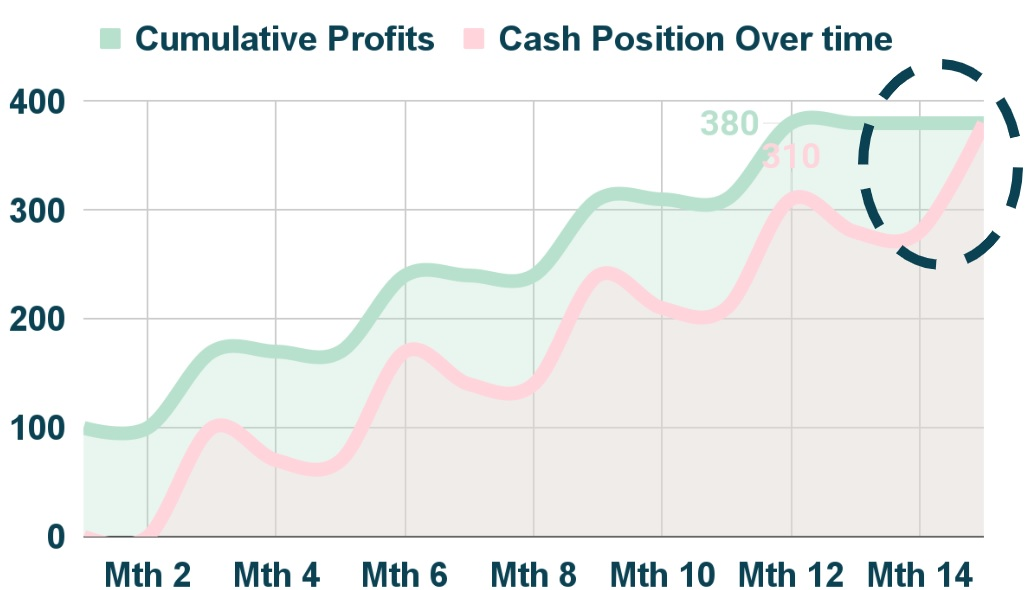
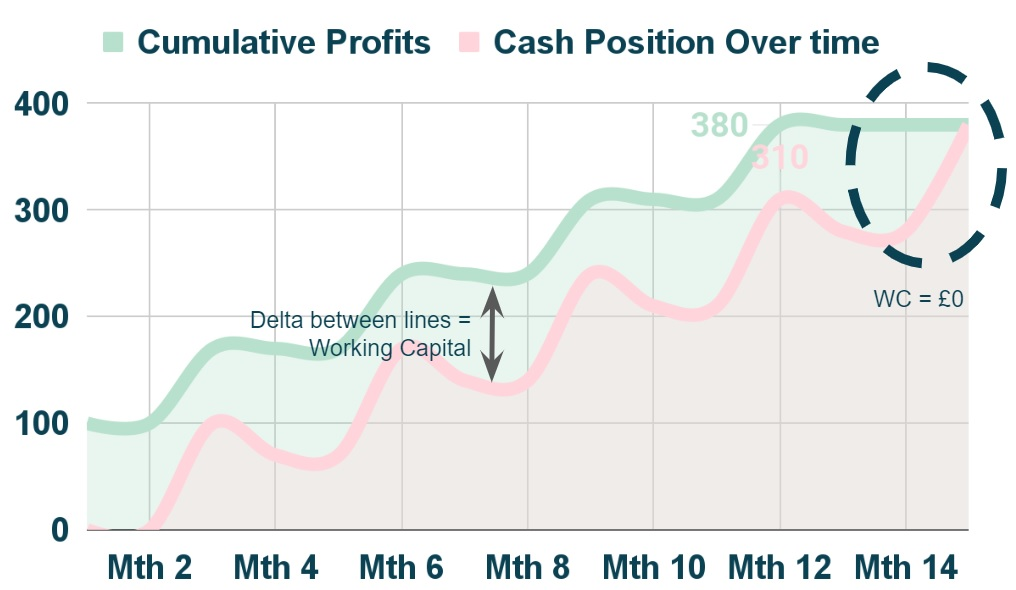
done

diff --git a/POSTS/DOT2.html b/POSTS/DOT2.html
@@ -8,7 +8,7 @@
         <meta property="og:description" content="As runway is defined by Cashflows not Profit, 
         to get a full picture of the operations of a Company, it is of paramount importance
          to understand how Profits translate into Cashflows over time."/>
-        <meta property="og:image" content="http://dotslog.com/DOTFILES/DOT2/img/CoverP.jpg"/>
+        <meta property="og:image" content="http://dotslog.com/DOTFILES/DOT2/img/CoverP2.jpg"/>
         <meta property="og:site_name" content="DotsLog"/>
         <meta charset="utf-8" />
         <meta name="author" content="Tiago Dias" />      
@@ -39,7 +39,7 @@
             </div>
         </nav>
         <!-- Page Header-->
-        <header class="masthead" style="background-image: url('../DOTFILES/DOT2/img/CoverP.jpg')">
+        <header class="masthead" style="background-image: url('../DOTFILES/DOT2/img/CoverP2.jpg')">
             <div class="container position-relative px-4 px-lg-5">
                 <div class="row gx-4 gx-lg-5 justify-content-center">
                     <div class="col-md-10 col-lg-8 col-xl-7">
@@ -49,7 +49,7 @@
                             <span class="meta">
                                 Written by
                                 <a href="../index.html">Tiago Dias</a>
-                                on July 22, 2022 (v1)
+                                on July 25, 2022 (v1)
                             </span>
                         </div>
                     </div>
@@ -66,19 +66,19 @@
                         <p align="justify">As runway is determined by Cashflows not Profit, 
                             to get a full picture of the operations of a Company, it is of paramount 
                             importance to understand how Profits translate into Cashflows over time.</br> 
-                            Key concepts are explained in this note, which set the
-                            foundations required to understand more advanced topics in future notes.
+                            This note sets the foundations required to understand more advanced topics in the future.
+                            
                         </p>                
                        
                         <!-- SECTION 1-->
-                        <h2 class="section-heading">Cashflows = Profits + Time Impact</h2>
+                        <h2 class="section-heading">Step 1 <br> Cashflows = Profits + Time Impact</h2>
                         <p align="justify">Cashflows and Profits are defined in the 
                             same way, i.e. revenues net of costs, but they 
                             are not measured on the same basis.  
                         </p>
                         <a ><img class="img-fluid" src="../DOTFILES/DOT2/img/D2P1.jpg" alt="..." /></a>
                         <span class="caption text-muted">Figure 1: Cashflows vs profits.</span>
-                        <p align="justify"><strong>Cash basis:</strong> this means to record 
+                        <p align="justify"><strong>Cash basis</strong> <br>This means to record 
                             revenues and costs based on when they are respectively received (cash revenues) or paid (cash costs).
                         </p>
                         <a ><img class="img-fluid" src="../DOTFILES/DOT2/img/D2P2.jpg" alt="..." /></a>
@@ -102,7 +102,7 @@
                             the (£30) cash costs in month 13 would be excluded.</strong>
                         </p>
 
-                        <p align="justify"><strong>Profit and Loss (P&L) basis:</strong> there are rules, 
+                        <p align="justify"><strong>Profit and Loss (P&L) basis</strong> <br>There are rules, 
                             based on different accounting standards, that stipulate when revenue is earned 
                             and when costs are incurred.
                             
@@ -123,7 +123,7 @@
                         <li>P&L Revenue client 3 = £100 earned in month 6 (received in month 9)</li>
                         <li>P&L Revenue client 4 = £100 earned in month 9 (received in month 12)</li>
                         <li>P&L Revenue client 5 = £100 earned in month 12 (received in month 15) </li>
-                        <li>Quarterly P&L Costs = (£30) incurred per quarter paid after quarter end</li>
+                        <li>Quarterly P&L Costs = (£30) incurred per quarter, paid after quarter end</li>
                     </ol>
 
                     <p align="justify">
@@ -137,30 +137,33 @@
                     <ol align="justify">
                         <li><strong>From a revenue perspective</strong>, the company received £400 cash revenues (client 5 was paid after year end) 
                             and earned £500 of revenues from 5 clients. 
-                            <strong>The time impact was thus (£100) relating to the £100 from client 5 that were received in month 15. </strong></li>
+                            <strong><br>The time impact was thus (£100) relating to the £100 from client 5 that was earned in month 12 but was
+                                only received in month 15. </strong></li>
                         <li><strong>From a cost perspective</strong>, it paid out three quarters (£90) but incurred 
                             (£120) relating to four quarters. 
-                            <strong>The time impact was thus £30 relating to fourth quarter costs that were paid in month 13. </strong> </li>
+                            <strong><br>The time impact was thus £30 relating to fourth quarter costs incurred during the quarter
+                                that were paid in month 13. </strong> </li>
                         
                       </ol>
                       <p align="justify"><strong>The overall time impact was thus (£70k)=(£100)+£30.</strong></p>
                       <a ><img class="img-fluid" src="../DOTFILES/DOT2/img/D2P5.jpg" alt="..." /></a>
-                      <span class="caption text-muted">Figure 5: Cash Time impact (£70) =£310-£380 = (£100)+£30 </span>
+                      <span class="caption text-muted">Figure 5: Cash Time impact (£70) =£310-£380 = (£100) from revenues +£30 from costs </span>
 
 
                       
 
                     <!-- SECTION 2-->
-                    <h2 class="section-heading">Balance Sheet > Keep a Score Sheet</h2>
+                    <h2 class="section-heading">Step 2<br>Balance Sheet = Keep a Score Sheet</h2>
                     <p align="justify"> 
                         In the prior sections, we have discussed two simplified versions of 
                         the financial statements of a Company for a certain time period:
+                        <ol align="justify">
+                            <li><strong>Cashflows</strong> = net change in cash position for the period
+                                </li>
+                            <li><strong>P&L</strong> = profit or loss for period</li>
+                        </ol>    
                     </p> 
-                    <ol align="justify">
-                        <li><strong>Cashflows</strong> = net change in cash position for the period
-                            </li>
-                        <li><strong>P&L</strong> = profit or loss for period</li>
-                                              </ol>
+                    
                     
                     <p align="justify"> 
                         To tie everything together we need to introduce a third financial statement, 
@@ -180,10 +183,8 @@
                         </p>
 
                     <p align="justify">
-                        <strong>Archetype #1 > Revenues</strong>
-                                                </p>
-                        <p align="justify">
-                         Going back to the example earlier in this note, what would the running score 
+                        <strong>Archetype #1 > Revenues</strong><br>
+                         Going back to the example earlier in this note, what would the final Score Sheet
                          look like for each revenue "team" at the end of the year (month 12)?
                             <strong></strong>
                             </p>
@@ -191,7 +192,7 @@
                     <center>TEAM CASH REVENUES score = £400 </br>vs TEAM P&L REVENUES score = £500</center>
                     <p align="justify">
                         TEAM P&L REVENUES thus wins the game by a margin of £100. In accounting terms however, 
-                        the overall game score or balance sheet is shown in a slightly different way 
+                        the overall game score or Balance Sheet is shown in a slightly different way 
                         (after all this is accounting stuff…):</br>
                         <center>TEAM CASH REVENUES score of £400 + £100 = </br>
                             TEAM P&L REVENUES score  £500</center>
@@ -220,16 +221,18 @@
                         Equity can thus be interpreted as the residual claim that 
                     Shareholders will have on a Company's Assets net of its Liabilities. Whatever is left 
                     would be owed to them, to compensate for the risk taken when they invested in the Company. 
-                </br>Note that <strong>Equity may be a negative figure</strong>, which means that the losses incurred over time are greater than the 
+                </br><strong>Equity may be a negative figure</strong>, when losses incurred over time are greater than the 
                     initial Equity investment from Shareholders - in this situation the Company is 
-                    <strong>insolvent</strong> which is a red flag. Soon after, it will likely become
-                <strong>iliquid, i.e. it will run out of 
-                    cash to pay the bills</strong> and go bankrupt.
+                    <strong>insolvent</strong> which is a red flag. When this happens it is very likely that within 12 months
+                    the Company becomes <strong>iliquid and runs out of 
+                    cash to pay the Bills. To put in another way, Runway is equivalent to when 
+                    the Company will become iliquid. The Balance Sheet can thus be analysed in order
+                    to determine the financial strength of a Company. </strong>
                     
                     </p> 
                     <p align="justify"> 
-                                            Coming back to the example at the start of this note, for Archetype #1 (Revenues), the Score Sheet for the game (i.e. the Balance Sheet) would be 
-                                            rewritten as (see all financial statements further below):
+                    Coming back to the example at the start of this note, for Archetype #1 (Revenues), the Score Sheet for the game (i.e. the Balance Sheet) would be 
+                    rewritten as (see all financial statements further below):
                         <center><strong>£400 Cash + £100 Asset = £500 Equity</strong></center>
                     </p> 
                     <a ><img class="img-fluid" src="../DOTFILES/DOT2/img/D2P6.jpg" alt="..." /></a>
@@ -241,7 +244,7 @@
                     </p>
 
                     <p align="justify">
-                        TEAM P&L COST thus wins the game by a margin of £30. Again, in accounting terms, the score would be
+                        In accounting terms, the score would be
                         written slightly different as: 
                         <center>TEAM CASH COSTS score of -£90 = </br>
                             TEAM P&L COSTS score  -£100 + £30</center>
@@ -249,7 +252,7 @@
                     
                     <p align="justify">
                         The balancing item of £30 will have to be paid from cash at the bank in the future.<strong> 
-                            As previously explained, this is a liability of £30</strong>.</br> 
+                            As previously explained, this is a liability of £30</strong>.
                             For Archetype #2 (Costs), the Score Sheet for the game (i.e. the Balance Sheet) would 
                             be rewritten as:
                             <center><strong>-£90 Cash = £30 Liability - £120 Equity</strong></center></br>
@@ -261,10 +264,8 @@
 
                     <p align="justify">
                         <strong>What is the Overall Score ?</br> GAME 1 SCORE (REVENUES)
-                             + GAME 2 SCORE (COSTS)</strong>
-                    </p>
-
-                    <p align="justify">
+                             + GAME 2 SCORE (COSTS)</strong></br>
+                    
                         The examples above, describe two fundamental archetypes 
                         that are used as building blocks to produce the financial 
                         statements of a Company. 
@@ -278,17 +279,17 @@
                         (-£100+£30) is simply the consequence of:
                         <ul align="justify">
                             <li> increasing assets by £100, which has a negative 
-                                impact in Cashflows as the cash inflow will occur later (£100 is received in month 15), 
+                                impact in Cashflows, as the cash inflow will occur later (£100 is received in month 15) 
                             </li>
                             and of
                             <li>increasing liabilities by £30, 
-                                which has a positive impact in Cashflows as the cash outflow will be paid later (£30 is paid in month 13).
+                                which has a positive impact in Cashflows, as the cash outflow will be paid later (£30 is paid in month 13).
                             </li>
                           </ul></strong>
                     </p>
 
                     <!-- SECTION 3-->
-                        <h2 class="section-heading">Cashflows = Profits - Change in Working Capital</h2>
+                        <h2 class="section-heading">Step 3 <br>Cashflows = Profits - Change in Working Capital</h2>
                         <p align="justify">You may have heard in the past the term “Working Capital” and 
                             searched online the term to get the below:  
                         </p>
@@ -299,9 +300,9 @@
                                 
                             </p>
                         <ol align="justify">
-                                <li>Assets were split into two lines: (i) <strong>current assets (CA)</strong> which means 
-                                    assets that are expected to be converted into cash within 12 months after 
-                                    the end of the period and (ii) <strong>non current assets</strong> which means assets that will 
+                                <li>Assets were split into two lines: (i) <strong>current assets (CA)</strong> which are
+                                    assets that are expected to be converted into cash, within 12 months after 
+                                    the end of the period and (ii) <strong>non current assets</strong> which are assets that will 
                                     take more than 12 months to be converted to cash</li>
                                 <li>Liabilities were split into two lines: (i) <strong>current liabilities (CL) </strong>which means 
                                     amounts owed that are expected to be paid within 12 months after the end of the 
@@ -310,56 +311,57 @@
                                 </li>                               
                         </ol>
                         <a ><img class="rounded mx-auto d-block" src="../DOTFILES/DOT2/img/D2P9.jpg" alt="..." /></a>
-                        <span class="caption text-muted">Figure 9: Balance Sheet with split between current and noncurrent.</span>
+                        <span class="caption text-muted">Figure 9: Balance Sheet with split between current and non current assets.</span>
 
                         <p align="justify">At the start the period CA = 0 and CL = 0 hence Working Capital 
-                            (CA - CL) was zero. However at the end of the period, CA increased to £100 and 
-                            CL increased to £30 hence working capital increased from £0 to £70. 
+                            whic is defined as the difference between CA and CL was zero. However at the end of the period, CA increased to £100 and 
+                            CL increased to £30 hence Working Capital increased from £0 to £70. 
                             Does this number look familiar? <br>
-                            <strong>Hopefully yes… this figure is the increase in working capital for the period,
-                                 £70-0 = £100 impact 
-                            from revenues net of £30 impact from costs. Therefore, one concludes the following relationship
+                            <strong>Hopefully yes… this figure is the time impact for the period,
+                                 £70 = £100 time impact 
+                            from revenues net of £30 time impact from costs. Therefore, one concludes the following relationship
                             between the three financial statements:</br> </strong>
                             <a ><img class="img-fluid" src="../DOTFILES/DOT2/img/D2P10.jpg" alt="..." /></a>
                         <span class="caption text-muted">Figure 10: Cashflows (£310) = Profits (£380) - Change in WC (£70).</span>
                         </p>                      
 
-                        <p align="justify">Why is CA - CL called Working Capital?<br>
-                            The figure below is plotting the cumulative Profits and Cashflows on a monthly basis between month 1 add
-                            month 15. <br>
+                        <p align="justify">Why is Current Assets minus Current Liablities called Working Capital?<br>
+                            The figure below is plotting the cumulative Profits and Cashflows on a monthly basis between 
+                            month 1 and month 15.<br>
                             <a ><img class="img-fluid" src="../DOTFILES/DOT2/img/D2P11.jpg" alt="..." /></a>
                             <span class="caption text-muted">Figure 11: Delta between Profits and Cashflows = Working Capital .</span>
                             If revenues were received as soon as they were earned and costs were paid as soon as they were
                             incurred, the pink line for the cash position over time would exactly match the green line for the cumulative Profits. <br>
-                            In pratice, there is typically always a delay between (i) earning and receiving revenues (Current Asset) and 
-                            (ii) incurring and paying for costs (Current Liability), which means that the cash position usually ends up being lower.
+                            There is typically a delay between (i) earning and receiving revenues (Current Asset) and 
+                            (ii) incurring and paying for costs (Current Liability), and as a consequence the cash position 
+                            ends up being lower.
                             The delta between the two lines represents cash tied up in the Company's operations that cannot be used to pay
                             the bills.<br>
                             <strong>Replace the words "cash" by "Capital" and "operations" by "Working" and reverse the order and you get to what 
-                            is typicall called Working Capital = Current Assets - Current Liabilities.</strong> 
+                            is called Working Capital = Current Assets - Current Liabilities.</strong> 
                             <br>Notice that in month 15 the delta between both lines collapses to zero because there
-                             are no more revevenues or costs. This implies that the Company would cease opterations; in pratice what would happen is 
-                             that the Company would continue to generate revenues and incurs costs (with delays to receive and pay) 
-                             and there would be an ongoing Working Capital level,
-                             or cash tied up with operations since the lines would never cross. 
+                             are no more revenues or costs to be received or paid. 
+                             This implies that the Company would cease operations; in practice what would happen is 
+                             that it would continue to generate revenues and incurs costs (with delays to receive and pay) 
+                             and there would be an ongoing Working Capital level since the lines would never cross. <br>
                              <a ><img class="img-fluid" src="../DOTFILES/DOT2/img/D2P12.jpg" alt="..." /></a>
-                             <span class="caption text-muted">Figure 12: On going Working Capital.</span>
+                             <span class="caption text-muted">Figure 12: Ongoing Working Capital.</span>
                         </p>
                         <!-- Third section-->
-                        <h2 class="section-heading">Cashflows = Profits - Change in Working Capital - Capital Expenditures</h2>
-                        <p align="justify">The are two remaining archetypes relate to situations when 
-                            either: <br>
-                            i) Revenue is received before it was actually earned (think SaaS 
+                        <h2 class="section-heading">Final Step <br>
+                            Cashflows = Profits - Change in Working Capital - Capital Expenditures</h2>
+                        <p align="justify">There are two remaining archetypes: <br>
+                            i) Cash revenues are received before they were actually earned (think SaaS 
                             business where a subscription is paid one year upfront) or 
-                            <br> ii) Cost is 
+                            <br> ii) Cash cost is 
                             paid before it was actually incurred (think that you are the client to 
                             the SaaS business).
                             <br>
                             In both cases, there is no P&L impact since there is 
-                            no revenue earned or cost incurred:
+                            no revenue earned or cost incurred.
                             </p>
                             <p align="justify">
-                                <strong>Archetype #3 > Receive cash before earning revenues <br></strong> 
+                                <strong>Archetype #3 > Receive cash revenues before earning revenues <br></strong> 
                                     Cashflows increases by e.g £100. In the Balance Sheet, cash 
                                     goes up by the same amount and current liabilities (since it relates to one year) 
                                     increase by £100, 
@@ -370,7 +372,7 @@
                             before earned).</span>
                                 </p>
                                 <p align="justify">
-                                <strong>Archetype #4 > Pay cost before incurring it <br> </strong>Cashflows decreased by e.g £100.
+                                <strong>Archetype #4 > Pay cash cost before incurring it <br> </strong>Cashflows decreased by e.g £100.
                                      In the Balance Sheet cash decreases by the same amount and current assets (since it relates to one year) 
                                      increase by £100, given 
                                      that the Company has paid for a product or service that was not provided yet.<br>
@@ -380,21 +382,35 @@
                         </p>                               
                         <p align="justify">
                             <strong>Archetype #4b > Purchase a long term asset <br> </strong>
-                                There is a slightly different version of the prior archetype. This relates to when cash is spend
-                                to purchase an asset that will be used for several years to generate additional cashflows. <br>
-                                In this situation, the cash expenditure is
+                                There is a slightly different version of the prior archetype. 
+                                This relates to when cash is spend to purchase an asset that will be used for 
+                                several years to generate additional cashflows. <br>
+                                In this situation, the cash cost is
                                     called "Capital Expenditure" or "Capex". If we use the same example, cashflows decreased by e.g £100.
                                  In the Balance Sheet cash decreases by the same amount and non-current assets (since it relates to more than one) 
                                  increase by £100. <br>
                                  <a ><img class="img-fluid" src="../DOTFILES/DOT2/img/D2P15.jpg" alt="..." /></a>
                     <span class="caption text-muted">Figure 15: Three financial statements for Archetype #4b (Capex expenditure).</span>
                     Given that the cash spent on the new asset, shows up in the balance as a non-current asset, the equation that relates
-                    Cashflows to Profits needs to be updated to include "Capex". <br>
+                    Cashflows to Profits needs to be updated to include "Capex", as this is not picked up by the change in Working 
+                    Capital. <br>
                     <a ><img class="img-fluid" src="../DOTFILES/DOT2/img/D2P16.jpg" alt="..." /></a>
                     <span class="caption text-muted">Figure 16: Cashflows = Profits - Change in WC - Capex.</span>
                     </p>                               
-
-
+                    <p > <strong>Conclusion</strong><br>
+                        There were a considerable amount to topics covered here to build intuition and 
+                        the foundations for advance topics.
+                        <br><strong>If there is one thing to remember, is that Profits is different
+                        from Cashflows and the relationship between both can be described by a 
+                        simple equation takes into account
+                        the impact of time:</strong><br>
+                        <center><strong>Cashflows = Profits - Change in WC - Capex.</strong></center><br>
+                        </p>
+                        <p align="justify">Why go through the hassle of explaining all this? <br>
+                            These concepts set the foundations required to understand 
+                        a future note, which will cover different types of business models and how important it is to be able to
+                        connect Profits to Cashflows, in order to determine how easy (or not) it is to scale a Company from a Cashflow
+                        perspective.</p>
                     <p align="justify">If I can be helpful on anything, or if you have any comments or suggestions, 
                                 please do reach out: <a ><img class="img-fluid" src="../assets/img/email.jpg" alt="..." /></a></p>
                             
